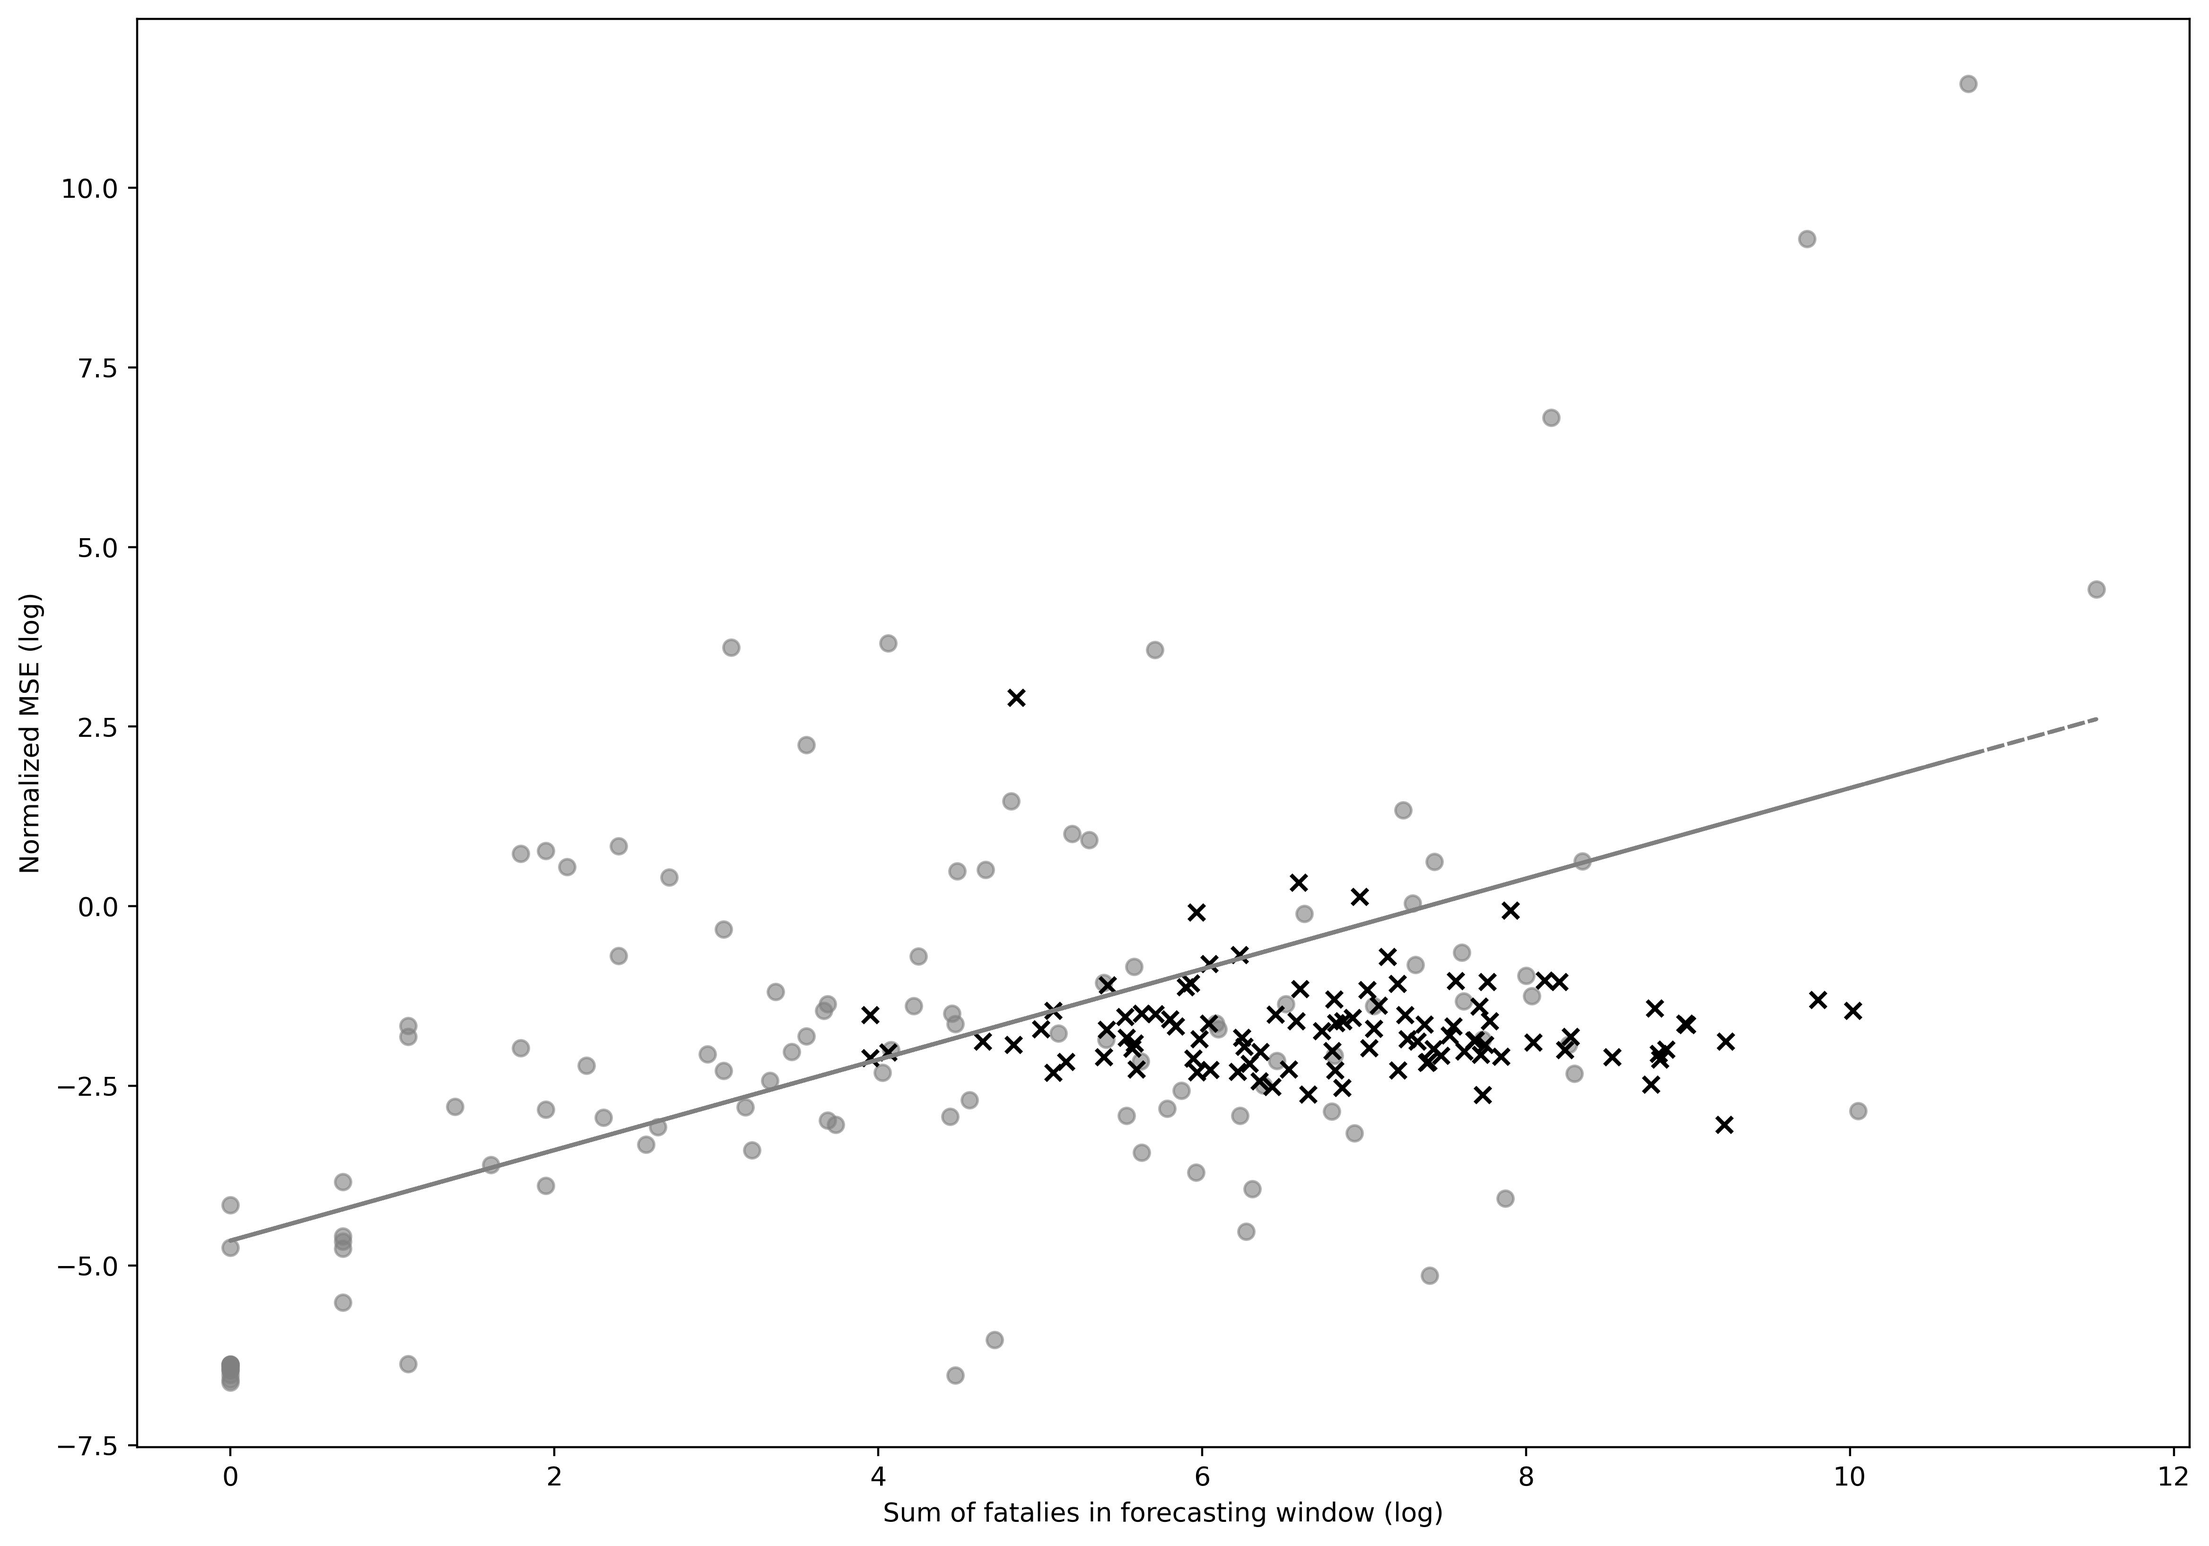
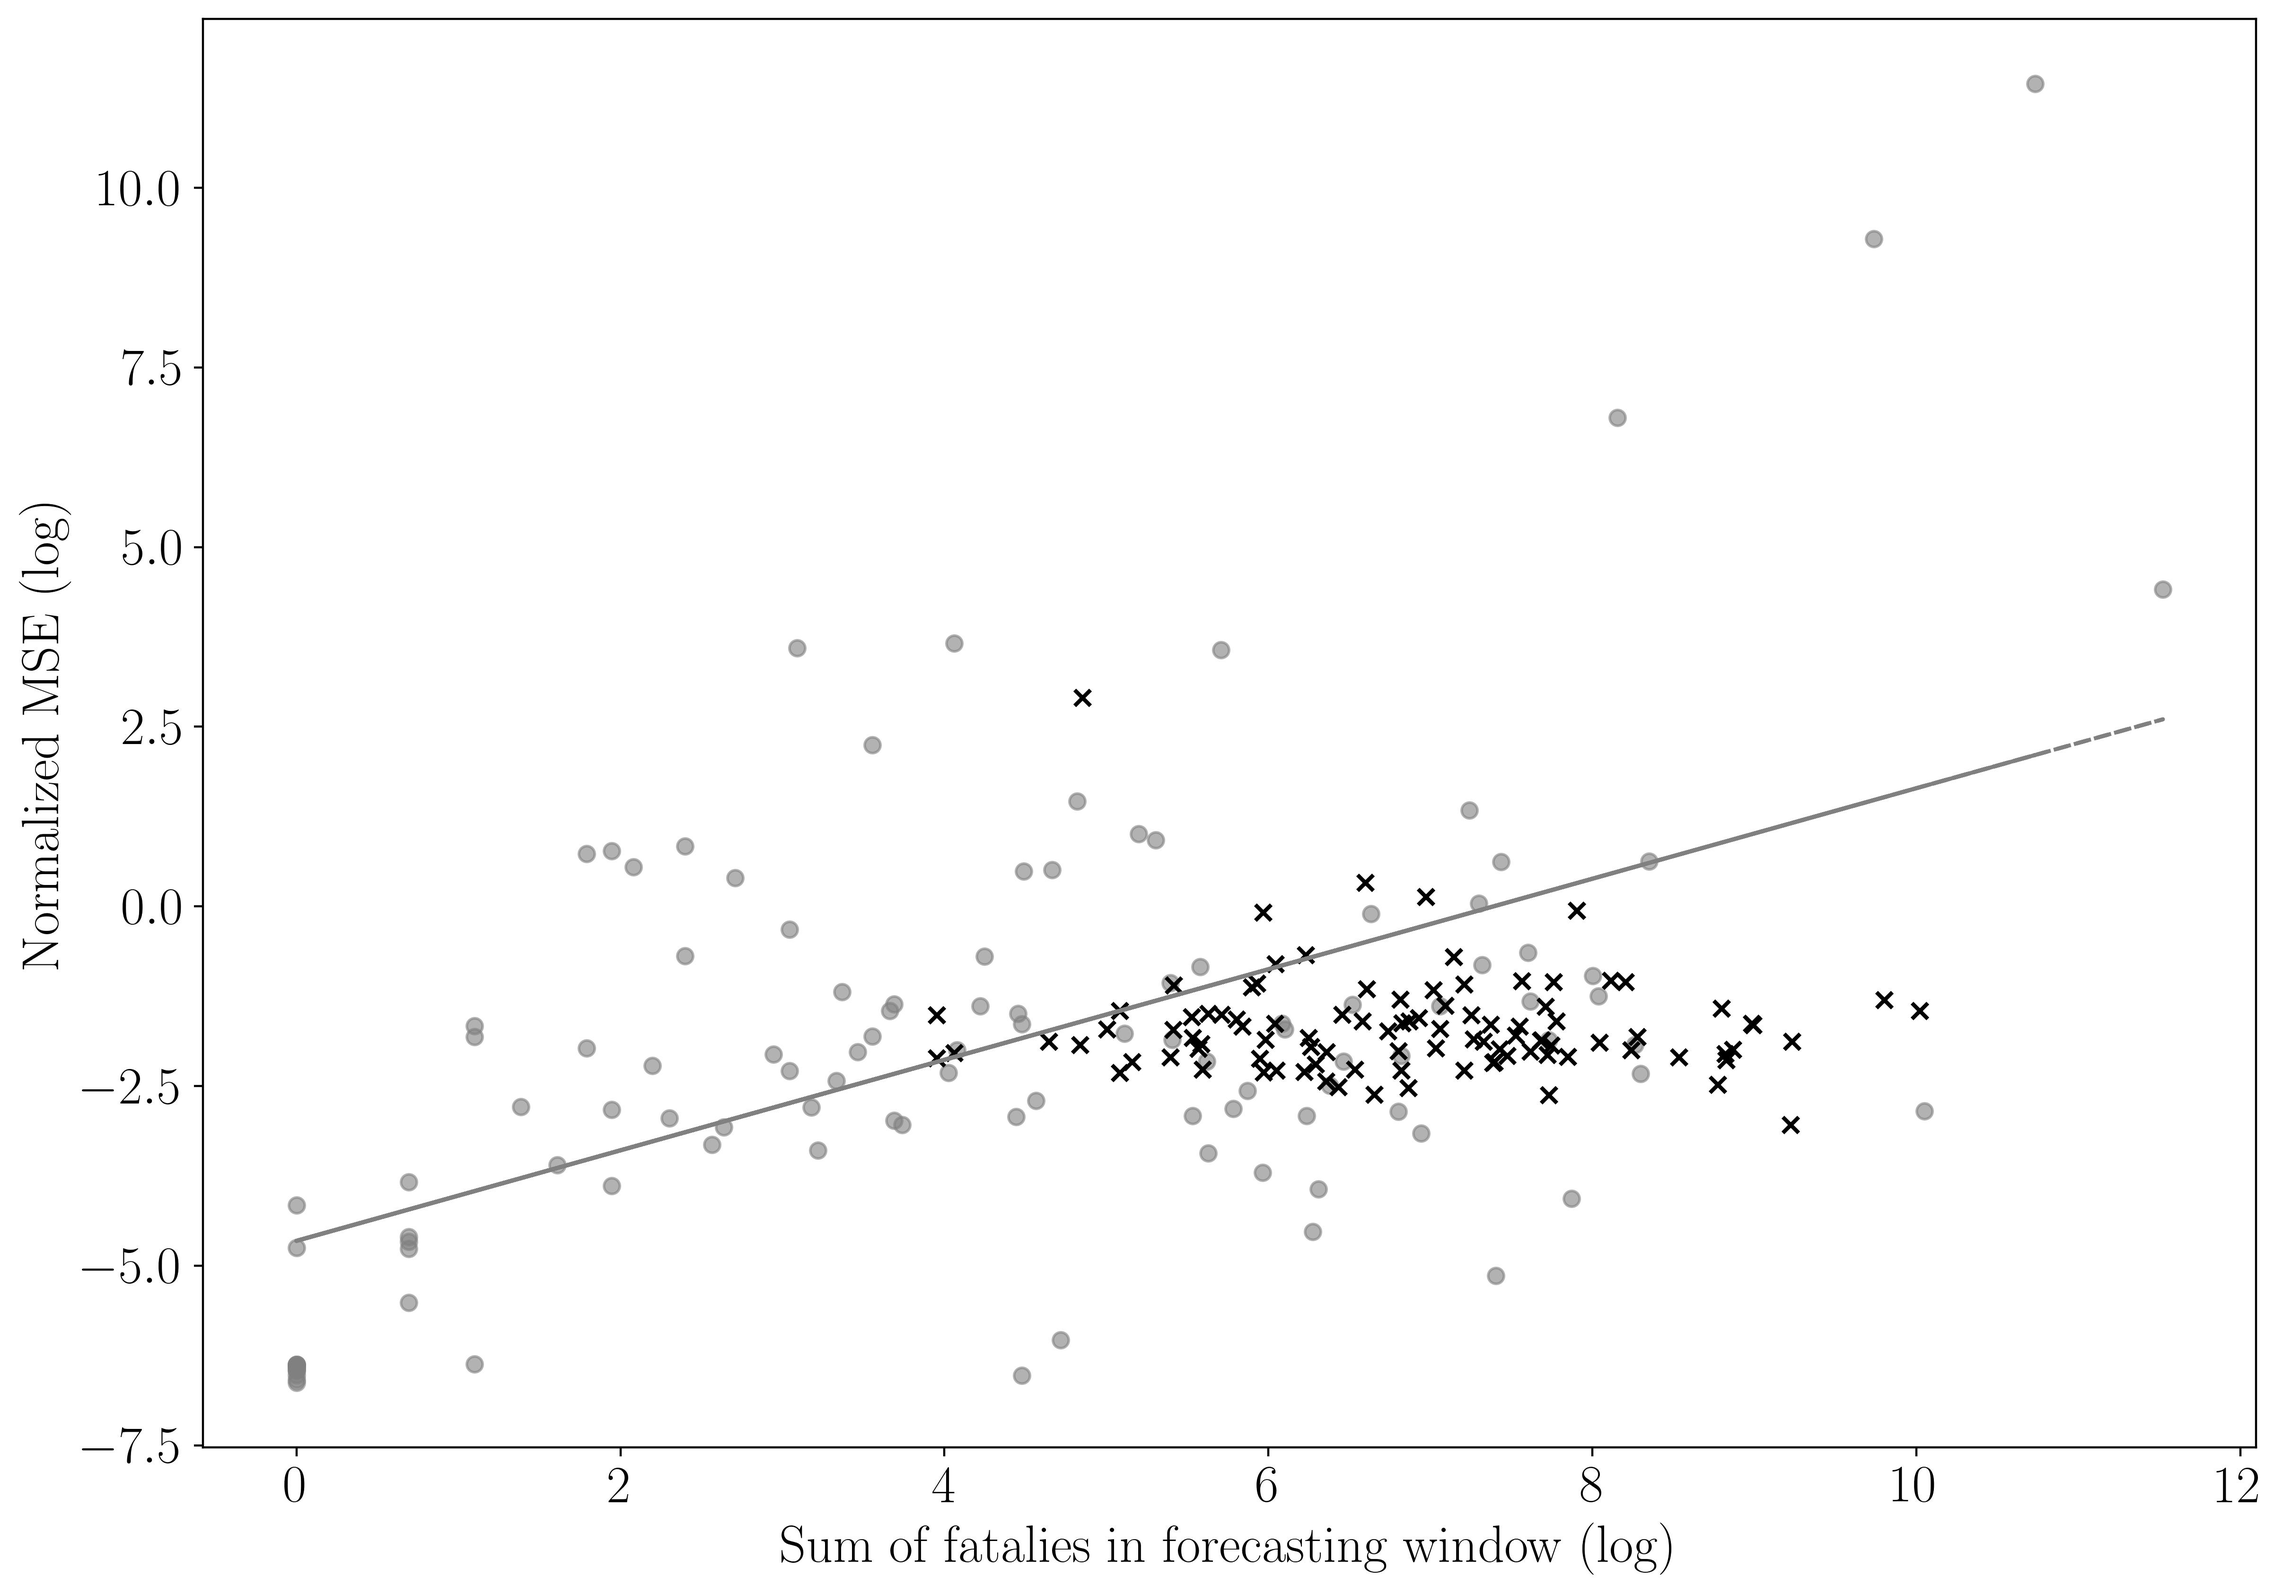
u

diff --git a/comapre.py b/comapre.py
@@ -23,6 +23,10 @@ from scipy.stats import linregress
 import matplotlib.lines as mlines
 from sklearn.tree import DecisionTreeRegressor,plot_tree
 from scipy import stats
+from cycler import cycler
+
+plot_params = {"text.usetex":True,"font.family":"serif","font.size":20,"xtick.labelsize":20,"ytick.labelsize":20,"axes.labelsize":20,"figure.titlesize":20,"figure.figsize":(8,5),"axes.prop_cycle":cycler(color=['black','rosybrown','gray','indianred','red','maroon','silver',])}
+plt.rcParams.update(plot_params)
 
 # =============================================================================
 # Get Data
@@ -262,22 +266,6 @@ for coun in range(len(df_input_sub.columns)):
         linkage_matrix = linkage(tot_seq, method='ward')
         clusters = fcluster(linkage_matrix, horizon/3, criterion='distance')
         
-        dn=dendrogram(linkage_matrix,color_threshold=horizon/3,above_threshold_color='black')
-        # Access the lines (linkages) in the dendrogram and set their colors
-        for i, d in zip(dn['icoord'], dn['dcoord']):
-            x = 0.5 * sum(i[1:3])
-            y = d[1]
-            if y > horizon/3:
-                col = 'black'
-            else:
-                col = 'lightgray'
-            #plt.plot(i, d, color=col)
-        #plt.axhline(y=horizon/3, c='black', ls='--', lw=0.8)
-        #plt.xticks([])
-        #plt.yticks([])
-        #plt.savefig(os.path.join(out_paths["analysis"],f"dendogram_{coun}_2022.jpeg"),dpi=400,bbox_inches="tight")
-        #plt.show()
-        
         # Proportion of cases assigned to each cluster
         pr = pd.Series(clusters).value_counts(normalize=True).sort_index()
         # Save maximum proportion
@@ -381,16 +369,17 @@ for coun in range(len(df_input_sub.columns)):
         pred_tot_pr.append(pred_ori*(df_input_sub.iloc[-h_train:,coun].max()-df_input_sub.iloc[-h_train:,coun].min())+df_input_sub.iloc[-h_train:,coun].min())
         
         # Plot
-        # plt.figure(figsize=(10, 6))
-        # plt.plot(preds, label='Shape finder', linestyle="dashed",color='black',linewidth=2)
-        # plt.plot(df_preds_test_1.iloc[:12,coun].reset_index(drop=True), label='ViEWS ensemble',linestyle="dotted",color='black',linewidth=2)
-        # plt.plot(df_obs_1.iloc[:,coun].reset_index(drop=True),label='Actuals',linestyle="solid",color="black",linewidth=2)
-        # plt.legend(loc='upper center', bbox_to_anchor=(0.5, -0.08), ncol=5,fontsize=20)
-        # #plt.title(f"{df_input_sub.columns[coun]}",size=30)
-        # plt.xticks([0,2,4,6,8,10],["2022-01","2022-03","2022-05","2022-07","2022-09","2022-11"],size=25)
-        # plt.yticks(size=25)
-        # plt.savefig(f"out/compare_preds_{df_input_sub.columns[coun]}_2022.jpeg",dpi=400,bbox_inches="tight")
-        # plt.show()    
+        plt.figure(figsize=(10, 6))
+        plt.plot(preds, label='Shape finder', linestyle="dashed",color='black',linewidth=2)
+        plt.plot(df_preds_test_1.iloc[:12,coun].reset_index(drop=True), label='ViEWS ensemble',linestyle="dotted",color='black',linewidth=2)
+        plt.plot(df_obs_1.iloc[:,coun].reset_index(drop=True),label='Actuals',linestyle="solid",color="black",linewidth=2)
+        plt.legend(loc='upper center', bbox_to_anchor=(0.5, -0.08), ncol=5,fontsize=20)
+        #plt.title(f"{df_input_sub.columns[coun]}",size=30)
+        plt.xticks([0,2,4,6,8,10],["2022-01","2022-03","2022-05","2022-07","2022-09","2022-11"],size=25)
+        plt.yticks(size=25)
+        if df_input_sub.columns[coun]=="Niger":
+            plt.savefig(f"out/compare_preds_{df_input_sub.columns[coun]}_2022.jpeg",dpi=400,bbox_inches="tight")
+        plt.show()    
         
         # plt.figure(figsize=(10, 6))
         # plt.plot(df_preds_test_1.iloc[:12,coun].reset_index(drop=True), label='ViEWS ensemble',linestyle="dotted",color='black',linewidth=2)
@@ -485,22 +474,6 @@ for coun in range(len(df_input_sub.columns)):
         ### Apply hierachical clustering to sequences in reference repository ###        
         linkage_matrix = linkage(tot_seq, method='ward')
         clusters = fcluster(linkage_matrix, horizon/3, criterion='distance')
-        
-        dn=dendrogram(linkage_matrix,color_threshold=horizon/3,above_threshold_color='black')
-        # Access the lines (linkages) in the dendrogram and set their colors
-        for i, d in zip(dn['icoord'], dn['dcoord']):
-            x = 0.5 * sum(i[1:3])
-            y = d[1]
-            if y > horizon/3:
-                col = 'black'
-            else:
-                col = 'lightgray'
-            #plt.plot(i, d, color=col)
-        #plt.axhline(y=horizon/3, c='black', ls='--', lw=0.8)
-        #plt.xticks([])
-        #plt.yticks([])
-        #plt.savefig(os.path.join(out_paths["analysis"],f"dendogram_{coun}_2023.jpeg"),dpi=400,bbox_inches="tight")
-        #plt.show()
         
         # Proportion of cases assigned to each cluster        
         pr = pd.Series(clusters).value_counts(normalize=True).sort_index()
@@ -606,17 +579,18 @@ for coun in range(len(df_input_sub.columns)):
         # Append predictions
         pred_tot_pr.append(pred_ori*(df_input_sub.iloc[-h_train:,coun].max()-df_input_sub.iloc[-h_train:,coun].min())+df_input_sub.iloc[-h_train:,coun].min())
         
-        # # Plot 
-        # plt.figure(figsize=(10, 6))
-        # plt.plot(preds, label='Shape finder', linestyle="dashed",color='black',linewidth=2)
-        # plt.plot(df_preds_test_2.iloc[:12,coun].reset_index(drop=True), label='ViEWS ensemble',linestyle="dotted",color='black',linewidth=2)
-        # plt.plot(df_obs_2.iloc[:,coun].reset_index(drop=True),label='Actuals',linestyle="solid",color="black",linewidth=2)
-        # plt.legend(loc='upper center', bbox_to_anchor=(0.5, -0.08), ncol=5,fontsize=20)
-        # #plt.title(f"Predictions for {df_input_sub.columns[coun]}",size=30)
-        # plt.xticks([0,2,4,6,8,10],["2023-01","2023-03","2023-05","2023-07","2023-09","2023-11"],size=25)
-        # plt.yticks(size=25)
-        # plt.savefig(f"out/compare_preds_{df_input_sub.columns[coun]}_2023.jpeg",dpi=400,bbox_inches="tight")
-        # plt.show()    
+        # Plot 
+        plt.figure(figsize=(10, 6))
+        plt.plot(preds, label='Shape finder', linestyle="dashed",color='black',linewidth=2)
+        plt.plot(df_preds_test_2.iloc[:12,coun].reset_index(drop=True), label='ViEWS ensemble',linestyle="dotted",color='black',linewidth=2)
+        plt.plot(df_obs_2.iloc[:,coun].reset_index(drop=True),label='Actuals',linestyle="solid",color="black",linewidth=2)
+        plt.legend(loc='upper center', bbox_to_anchor=(0.5, -0.08), ncol=5,fontsize=20)
+        #plt.title(f"Predictions for {df_input_sub.columns[coun]}",size=30)
+        plt.xticks([0,2,4,6,8,10],["2023-01","2023-03","2023-05","2023-07","2023-09","2023-11"],size=25)
+        plt.yticks(size=25)
+        if df_input_sub.columns[coun]=="Colombia" or df_input_sub.columns[coun]=="Central African Republic" or df_input_sub.columns[coun]=="Cameroon":
+            plt.savefig(f"out/compare_preds_{df_input_sub.columns[coun]}_2023.jpeg",dpi=400,bbox_inches="tight")
+        plt.show()    
         
         # plt.figure(figsize=(10, 6))
         # plt.plot(df_preds_test_2.iloc[:12,coun].reset_index(drop=True), label='ViEWS ensemble',linestyle="dotted",color='black',linewidth=2)
@@ -4179,3 +4153,11 @@ plt.ylabel('Mean absolute percentage error (log-ratio)',fontsize=20)
 plt.xlim(-0.5,2.5)
 plt.savefig("out/mape.jpeg",dpi=400,bbox_inches="tight")
 plt.show()
+
+
+
+
+
+
+
+
